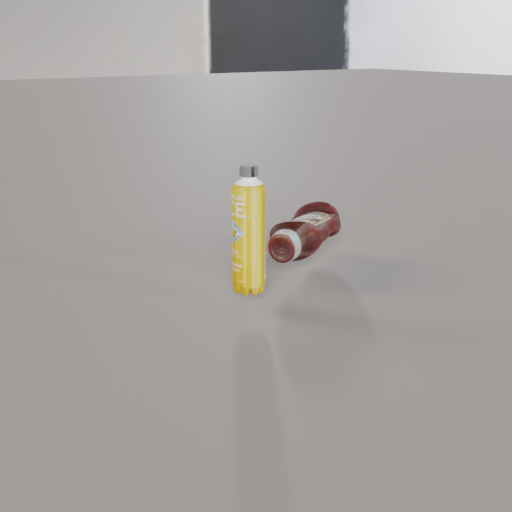
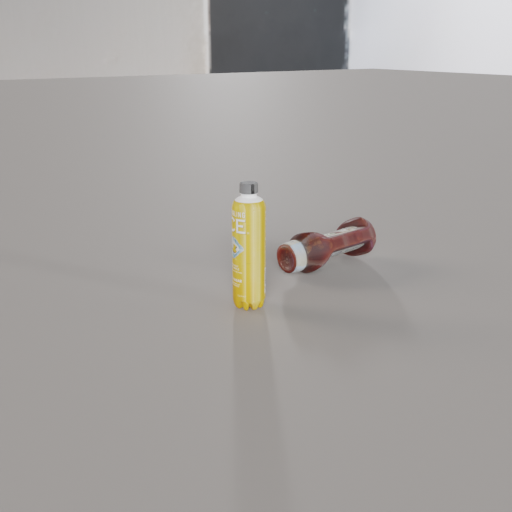
fix image floating issue

Changed region(s): [[0.4375, 0.3125, 0.75, 0.625]]

diff --git a/synthgen.py b/synthgen.py
@@ -105,6 +105,8 @@ def build_environment(use_hdri: bool = False) -> bpy.types.Object:
     bpy.ops.rigidbody.object_add(type="PASSIVE")
     ground.rigid_body.collision_shape = "MESH"
     ground.rigid_body.friction = 1.0
+    ground.rigid_body.use_margin = True
+    ground.rigid_body.collision_margin = 0.0
 
     mat = bpy.data.materials.new(name="GroundMat")
     mat.use_nodes = True
@@ -167,6 +169,8 @@ def import_glb_with_physics(glb_path: str, position: tuple, rotation_euler: tupl
         scale_factor = 0.3 / max_dim
         obj.scale *= scale_factor
         bpy.ops.object.transform_apply(scale=True)
+        
+    bpy.ops.object.origin_set(type='ORIGIN_GEOMETRY', center='BOUNDS')
 
     obj.location = Vector(position)
     obj.rotation_euler = Euler(rotation_euler)
@@ -178,6 +182,8 @@ def import_glb_with_physics(glb_path: str, position: tuple, rotation_euler: tupl
     obj.rigid_body.collision_shape = "CONVEX_HULL"
     obj.rigid_body.mass = 0.1
     obj.rigid_body.friction = 0.8
+    obj.rigid_body.use_margin = True
+    obj.rigid_body.collision_margin = 0.001
 
     return obj
 
@@ -185,21 +191,30 @@ def import_glb_with_physics(glb_path: str, position: tuple, rotation_euler: tupl
 # Physics bake
 # ─────────────────────────────────────────────────────────────────────────
 
-def bake_physics(rigid_objs: list[bpy.types.Object], frames: int = 80):
+def bake_physics(rigid_objs: list[bpy.types.Object], frames: int = 120):
     scene = bpy.context.scene
     scene.frame_start = 1
     scene.frame_end = frames
 
-    for f in range(1, frames + 1):
-        scene.frame_set(f)
+    if scene.rigidbody_world and scene.rigidbody_world.point_cache:
+        scene.rigidbody_world.point_cache.frame_start = 1
+        scene.rigidbody_world.point_cache.frame_end = frames
+
+    bpy.ops.ptcache.bake_all(bake=True)
+    scene.frame_set(frames)
+    bpy.context.view_layer.update()
 
     for obj in rigid_objs:
         mat = obj.matrix_world.copy()
         bpy.context.view_layer.objects.active = obj
         obj.select_set(True)
+        # Remove physics so the objects freeze in place
         bpy.ops.rigidbody.object_remove()
         obj.matrix_world = mat
         obj.select_set(False)
+        
+    # Free the cache memory
+    bpy.ops.ptcache.free_bake_all()
 
 # ─────────────────────────────────────────────────────────────────────────
 # Camera sampling
